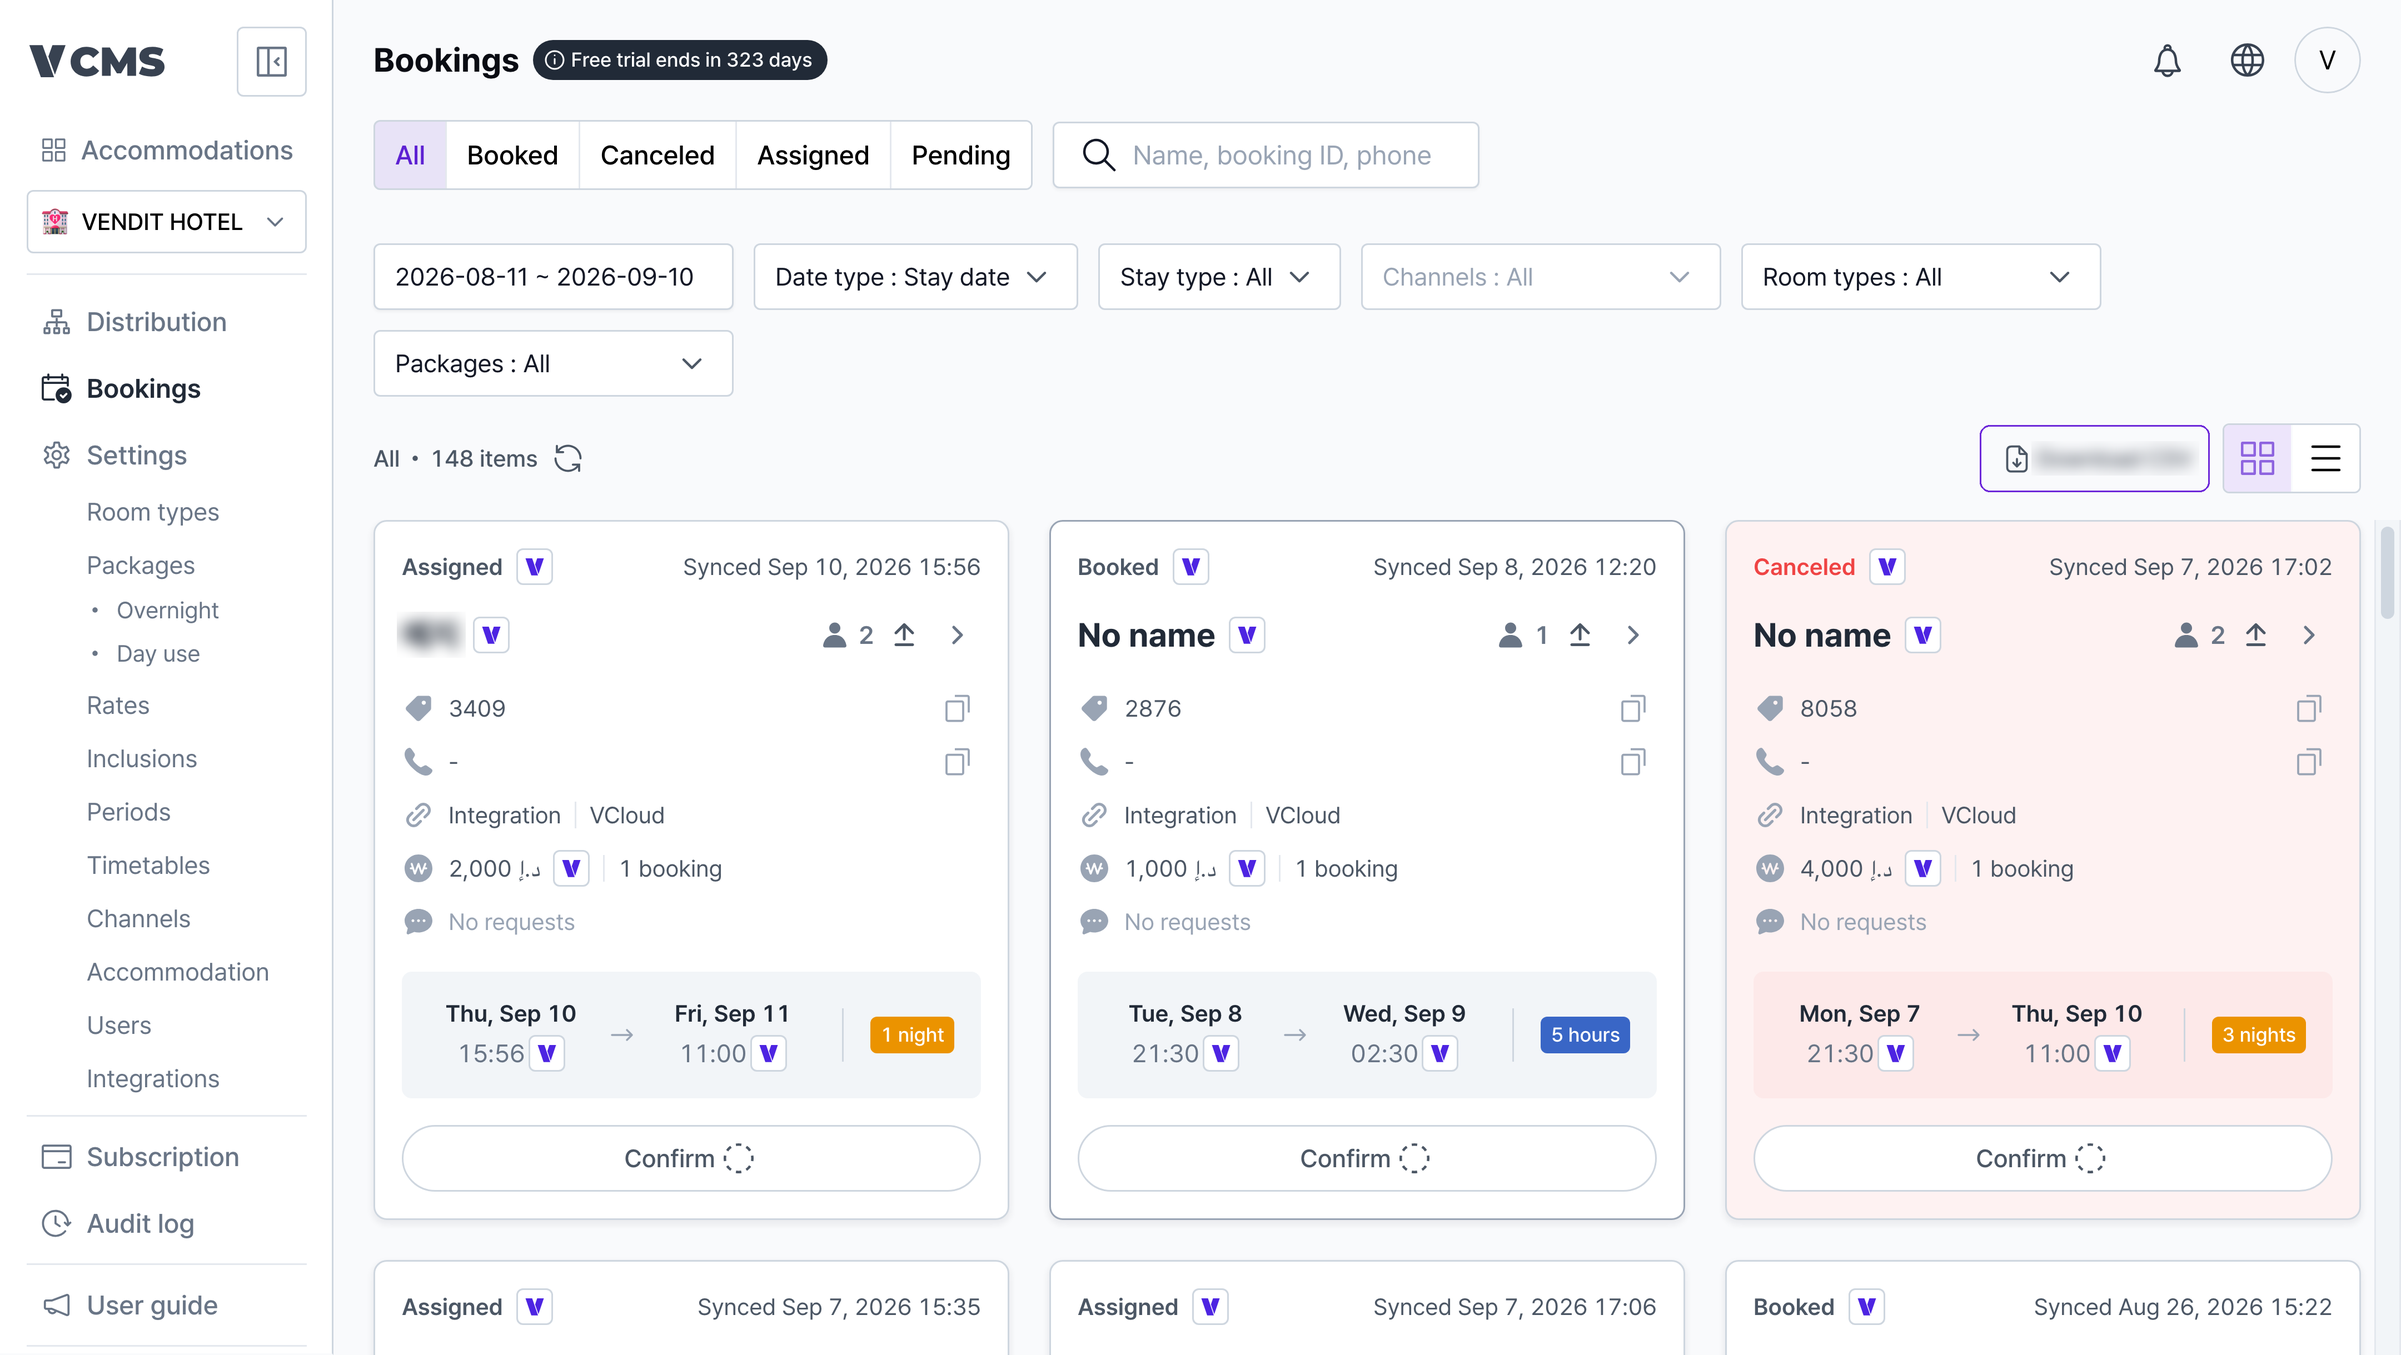
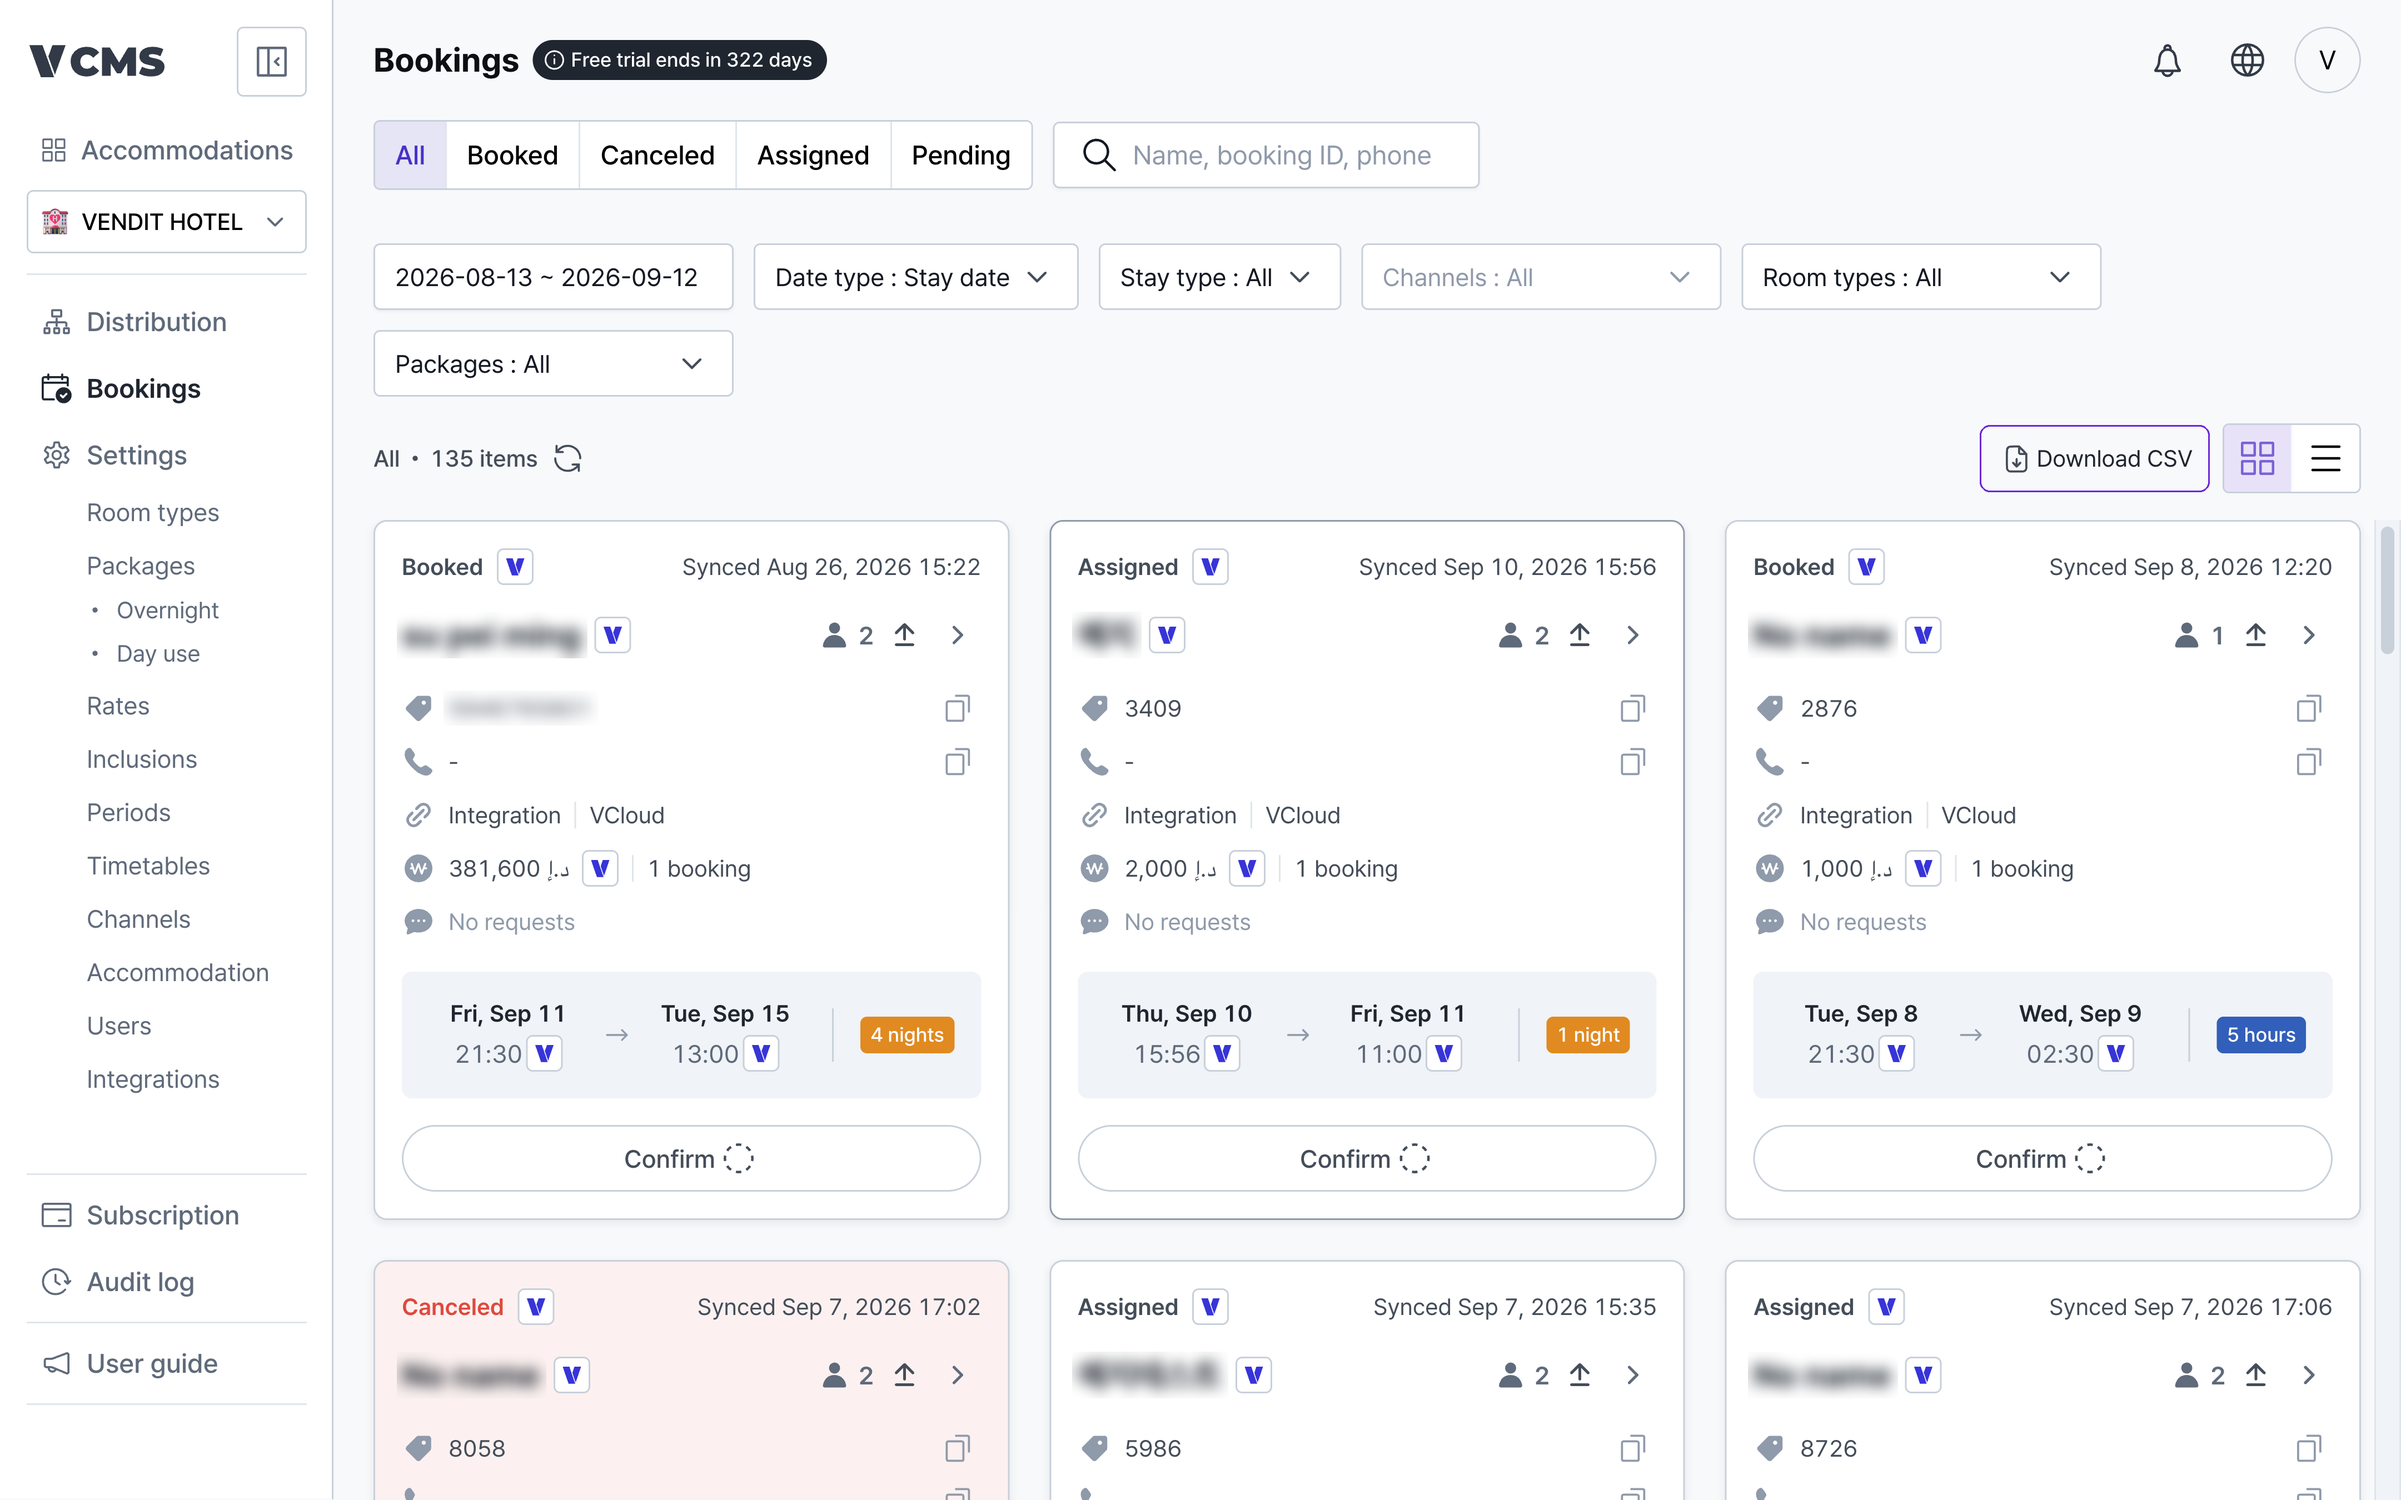
docs(en): keep the Download CSV label readable and blur every guest name in Bookings
The English Bookings blur treated any "Capitalised Word" pair as a name,
so it blurred the Download CSV label, which is the subject of the CSV
shot. It also let an all-lowercase Latin name through on the card view.
List views now skip the label; card views blur the name line by its
style, as the Korean shots already do, whatever script the name is in.

The VCLOUD booking FAQ gets an English Bookings list with the first
Confirm button boxed. swap_image.py now also finds references written
with escaped parentheses, image\(67\).png, which it silently missed.

diff --git a/scripts/swap_image.py b/scripts/swap_image.py
@@ -24,8 +24,10 @@ def swap(page, pairs):
     src = open(page, encoding="utf-8").read()
     out, hits, misses = src, [], []
     for old, new in pairs:
-        for form in ("NFD", "NFC"):
-            token = "/images/" + ud.normalize(form, old)
+        # MDX 는 괄호를 이스케이프해서 쓴다: image\(67\).png. 그 형태도 찾는다.
+        esc = old.replace("(", "\\(").replace(")", "\\)")
+        for form, name in (("NFD", old), ("NFC", old), ("NFD", esc), ("NFC", esc)):
+            token = "/images/" + ud.normalize(form, name)
             if token in out:
                 out = out.replace(token, "/images/" + new)
                 hits.append((old, new))

diff --git a/HANDOFF.md b/HANDOFF.md
@@ -59,21 +59,17 @@ fb977c7  상품 요금정보 5 장
 
 `IMAGES.md` 가 정본이다. 손으로 고치지 마라, `python3 scripts/images_manifest.py > IMAGES.md` 로 다시 만든다.
 
-**참조 275 건 중 185 건 정리 완료, 90 건 남음.** (2026-09-11)
+**참조 275 건 중 187 건 정리 완료, 88 건 남음.** (2026-09-12)
 
 | 상태 | 건수 | 뜻 |
 | --- | --- | --- |
-| 영어 캡처 완료 | 84 | `en-` 파일 |
+| 영어 캡처 완료 | 86 | `en-` 파일 |
 | 한국어 재사용 | 82 | 릴리즈 노트. Dean 이 2026-09-09 에 그대로 두기로 결정 |
-| 채널사 화면 | 78 | 야놀자, 아고다, 여기어때, 네이버, 에어비앤비, 익스피디아, 트립닷컴 파트너 화면. **Dean 몫** |
+| 채널사 화면 | 51 | 외부 사이트. 아래 3 절 |
 | 채널 로고 | 19 | 언어 무관 |
-| 재현 불가 | 8 | 사유는 `images_manifest.py` 의 `BLOCKED` |
-| Dean 확인 필요 | 4 | 아래 3 절. 사유는 `NEEDS_DEAN` |
-| 한국어 유지 (내 몫) | 0 | 내가 찍을 수 있는 건 다 찍었다 |
-
-남은 90 건 = 채널사 78 + 재현 불가 8 + Dean 확인 4.
-
-구독 화면 9 장, 상품 요금정보(기간 추가, 불러오기, 일괄 적용, 요금 선택) 전부 영어로 끝났다.
+| 재현 불가 | 12 | 사유는 `images_manifest.py` 의 `BLOCKED` |
+| Dean 확인 필요 | 24 | 아래 3 절 |
+| 한국어 유지 (내 몫) | 1 | |
 
 ---
 
@@ -104,8 +100,16 @@ en 에서 다시 찍은 자리와 같은 위치의 한국어 이미지 84 장을
 | --- | --- | --- |
 | `Distribution-Booking-Sync-Only.png` | `en/distributions/channel-sync.mdx` | 영어 배너가 `Since {date}, ...` 를 그대로 찍는다. dev 번들 `en.json` 은 `{date}`, vcms-i18n `main` 은 `{launchedAt}` 로 이미 고쳐져 있다. 배포되면 devtester04 에서 다시 찍어 교체. 지금 찍은 건 `images/en-distribution-booking-sync-only.png` 에 넣어뒀다(참조 안 함) |
 | `pkg_delete.png` | `en/inventory-rate/package-stay.mdx` | 현재 빌드는 휴지통이 항상 활성이고 툴팁은 "Delete" 뿐이다. 채널 연결 상품 차단은 누른 뒤에 뜨는 것으로 보이는데, 운영 삭제 버튼을 누르는 동작이라 자동 모드 분류기가 막았다 |
-| `연동서비스_4.png` | `en/faq/integrations/vcloud.mdx` | VCLOUD 해제 대화상자. devtester04(dev, VCLOUD In use)에서 Delete 를 열고 체크박스 두 개만 누르면 된다. 분류기가 막았다. **해제 버튼은 절대 누르지 마라** |
-| `연동서비스_2.png` | 〃 | VCLOUD 연동 입력 모달. dev VENDIT 에서 Connect 를 열기만 하면 된다. 분류기가 막았다 |
+
+| 연결된 채널 화면 22 장 (`채널_*`) | `en/channels/channel-setting.mdx`, `en/faq/inventory-rate/channel-*.mdx`, `limit-inventory-by-channel.mdx` | VENDIT HOTEL 은 연결된 채널이 0 개다. dev 에서 채널이 붙은 업소는 전부 실제 업체 이름, 채널 숙소 ID, 계정이 보여서 공개 문서에 못 쓴다. 깨끗한 테스트 채널 연결이 생기면 찍는다 |
+
+VCLOUD 연동/해제 창은 안 찍는다. 점주가 설정 못 하게 막아둔 게 의도다(Dean, 2026-09-12). 한국어 가이드도 같은 관리자 매뉴얼 절을 갖고 있다.
+
+### 채널사 화면 51 건(파일 47 장) 내역
+- 영어 화면이 있는 해외 채널, 지금은 한국어 UI: 에어비앤비 7, 익스피디아 5, 아고다 4, 트립닷컴 4. 파트너 계정이 있어야 다시 찍는다.
+- 한국어 전용 서비스라 영어판이 없다: NOL/야놀자 4, 네이버 6, 캠핏 2, 캠퍼레스트 1, 리브애니웨어 1, 트립비토즈 2, 카카오 알림톡 1. 그대로 둔다.
+- OS, 브라우저: 윈도우 전원 설정 5, 크롬 확장 메뉴 3.
+- 옛 "판매 설정" 모달 2 (야놀자 핫딜 FAQ).
 
 Dean 이 창에 띄워주면 `python3 scripts/shoot_now.py en-vcloud-disconnect.png images --match=development.vcms.io` 로 보이는 그대로 찍는다. 막힌 걸 우회하지 마라.
 
@@ -160,6 +164,8 @@ job 키: `url` `load` `click`(정규식, 스크롤됨) `click_at`(좌표 반환 
 - **여러 업소에서 특정 상태를 찾을 땐 탭을 앞으로 꺼내지 않는 CDP 스크립트로 훑어라.** dev 38 개 업소의 `/setting/systems` 와 `/inventories` 를 6 분에 훑어서 아래 6 절 업소들을 찾았다. 업소 ID 는 목록 카드의 React fiber props 에 있다(화면엔 끝 8 자리만 보인다).
 - **운영 캡처엔 `HIDE_INTERNAL` 을 꼭 넣어라.** 직원 계정이라 사이드바 맨 아래 `VENDIT only / VENDIT 전용` 이 보인다. 고객은 못 보는 메뉴다.
 - **영어 recipe 의 예약 블러를 한국어 UI 에 그대로 쓰지 마라.** 한글이면 전부 가리는 규칙이라 라벨이 다 뭉개지고 영문 이름(`su pei ming`)은 빠져나간다. `BOOKINGS_BLUR_LIST_KO` / `BOOKINGS_BLUR_CARD_KO` 를 써라.
+- **규격이 있는 이미지(판매관리 범례 등)는 제품 패널을 잘라서 대체하지 마라.** 한국어 이미지 위에 텍스트만 바꾼다(`overlay_text.py`). 2026-09-12 에 영어 범례 4 장이 크롭이라 규격이 달라 Dean 이 지적했다.
+- **영어 예약 블러의 "Firstname Lastname" 규칙은 `Download CSV` 도 가린다.** skip 목록에 넣었다. 새 블러 규칙을 만들면 화면의 UI 라벨이 멀쩡한지 꼭 잘라서 봐라.
 - **좌표로 버튼을 찾는 recipe 는 언어를 바꾸면 틀린다.** 한국어 라벨 폭이 달라서 판매관리 ⚙ 대신 ⓘ 가 눌렸다. `일괄 변경` 같은 이웃 텍스트 기준으로 찾아라.
 
 ### 나머지 스크립트

diff --git a/CHANGELOG.md b/CHANGELOG.md
@@ -1,5 +1,11 @@
 # CHANGELOG
 
+## 2026-09-12
+- 영어 판매관리 범례 4 장을 한국어 범례 규격으로 다시 만듦, 텍스트만 교체 (images/en-legend-*.png)
+- 채널 화면 27 장 재분류, 연결된 채널 화면 22 장은 테스트 연결 대기 (scripts/images_manifest.py)
+- 숙박업소 설정, 연결 가능 채널 영어 캡처, 한국어 숙박업소 설정 교체 (images/)
+- 예약 내역 영어 캡처의 Download CSV 라벨 블러 수정 (images/en-booking-*.png)
+
 ## 2026-09-11
 - 한국어 글 동결 유지, 이미지만 해제 (CLAUDE.md, scripts/swap_image.py --ko-images)
 - 한국어 이미지 84 장 비교 후 낡은 14 장 한국어 UI 로 교체, 제자리 덮어쓰기 (images/)

diff --git a/IMAGES.md b/IMAGES.md
@@ -5,7 +5,7 @@
 `en-` 로 시작하는 파일은 영어 UI 에서 새로 찍은 것이다. 나머지는 한국어 원본을 그대로 쓴다.
 `images/` 는 한국어 문서와 공유하므로 원본을 덮으면 한국어까지 바뀐다. 그래서 새 파일로 넣는다.
 
-참조 275건 중 187건 정리 완료, 88건 남음.
+참조 275건 중 188건 정리 완료, 87건 남음.
 
 ## `en/accommodation/create-accommodation.mdx`
 
@@ -332,7 +332,7 @@
 
 | 이미지 | 상태 |
 | --- | --- |
-| `image(67).png` | 한국어 유지 — 영어 재캡처 필요 |
+| `en-booking-confirm-button.png` | 영어 캡처 완료 |
 
 ## `en/faq/issue/yanolja-booking-delay.mdx`
 
